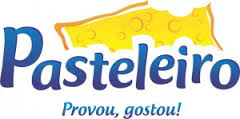
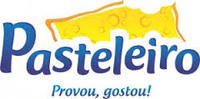
Resize images

diff --git a/app/uploaders/image_uploader.rb b/app/uploaders/image_uploader.rb
@@ -4,7 +4,7 @@ class ImageUploader < CarrierWave::Uploader::Base
 
   # Include RMagick or MiniMagick support:
   # include CarrierWave::RMagick
-  # include CarrierWave::MiniMagick
+  include CarrierWave::MiniMagick
 
   # Choose what kind of storage to use for this uploader:
   storage :file
@@ -25,7 +25,7 @@ class ImageUploader < CarrierWave::Uploader::Base
   # end
 
   # Process files as they are uploaded:
-  # process :scale => [200, 300]
+  process :resize_to_fit => [200, 300]
   #
   # def scale(width, height)
   #   # do something
